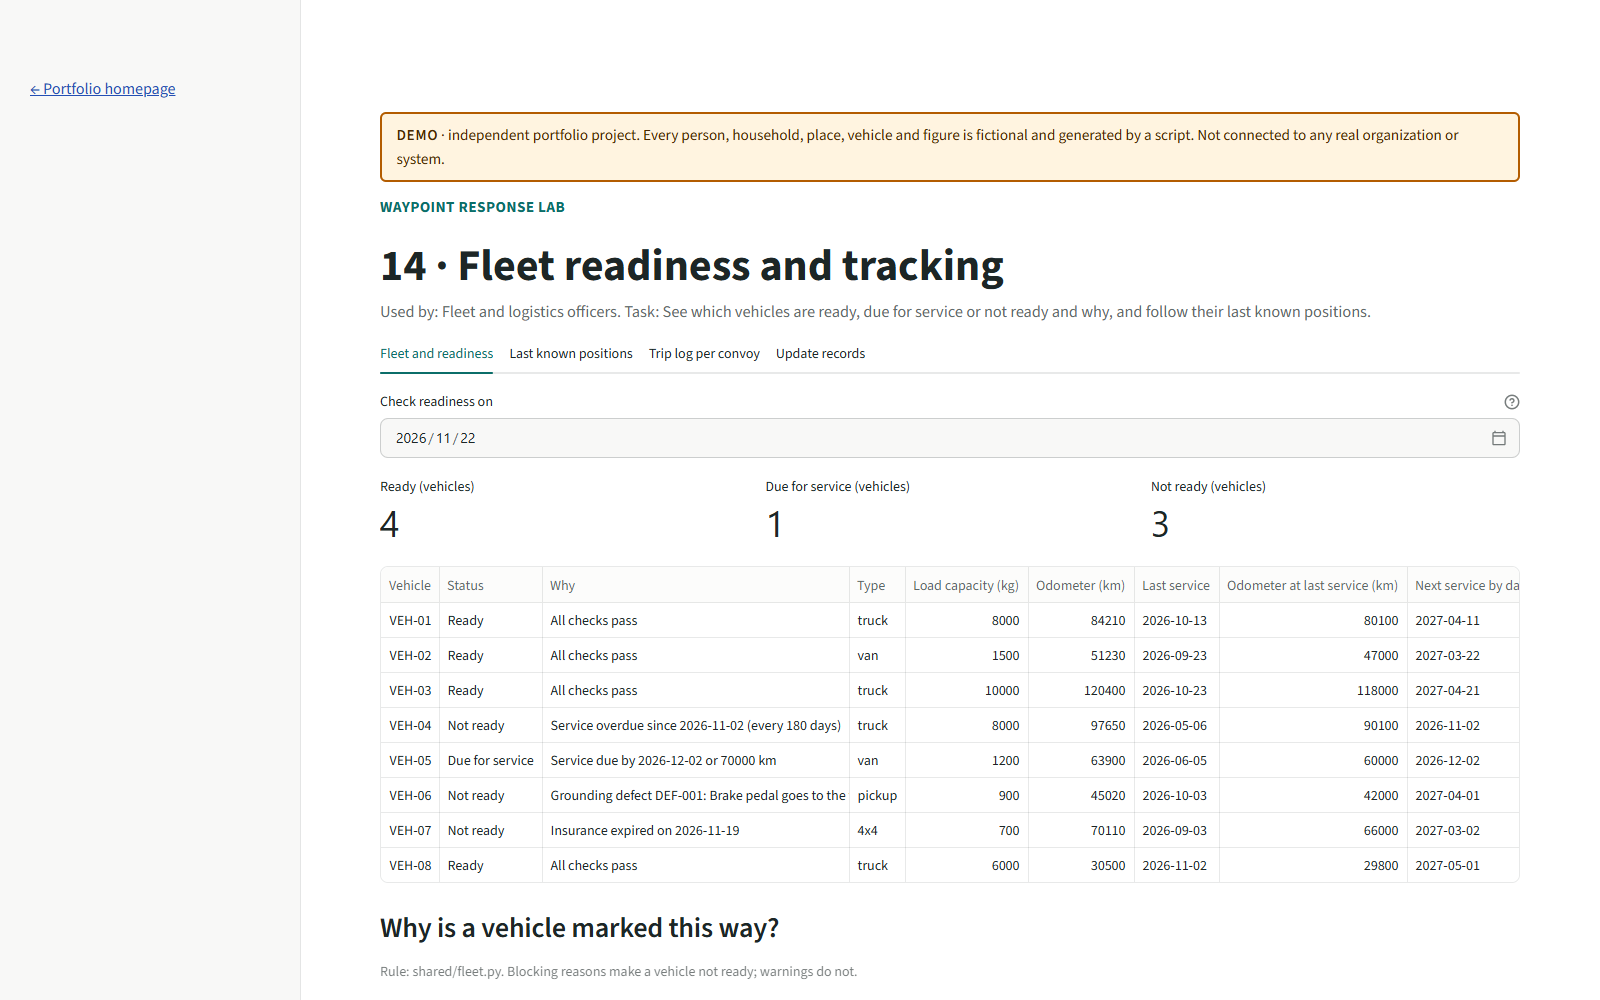
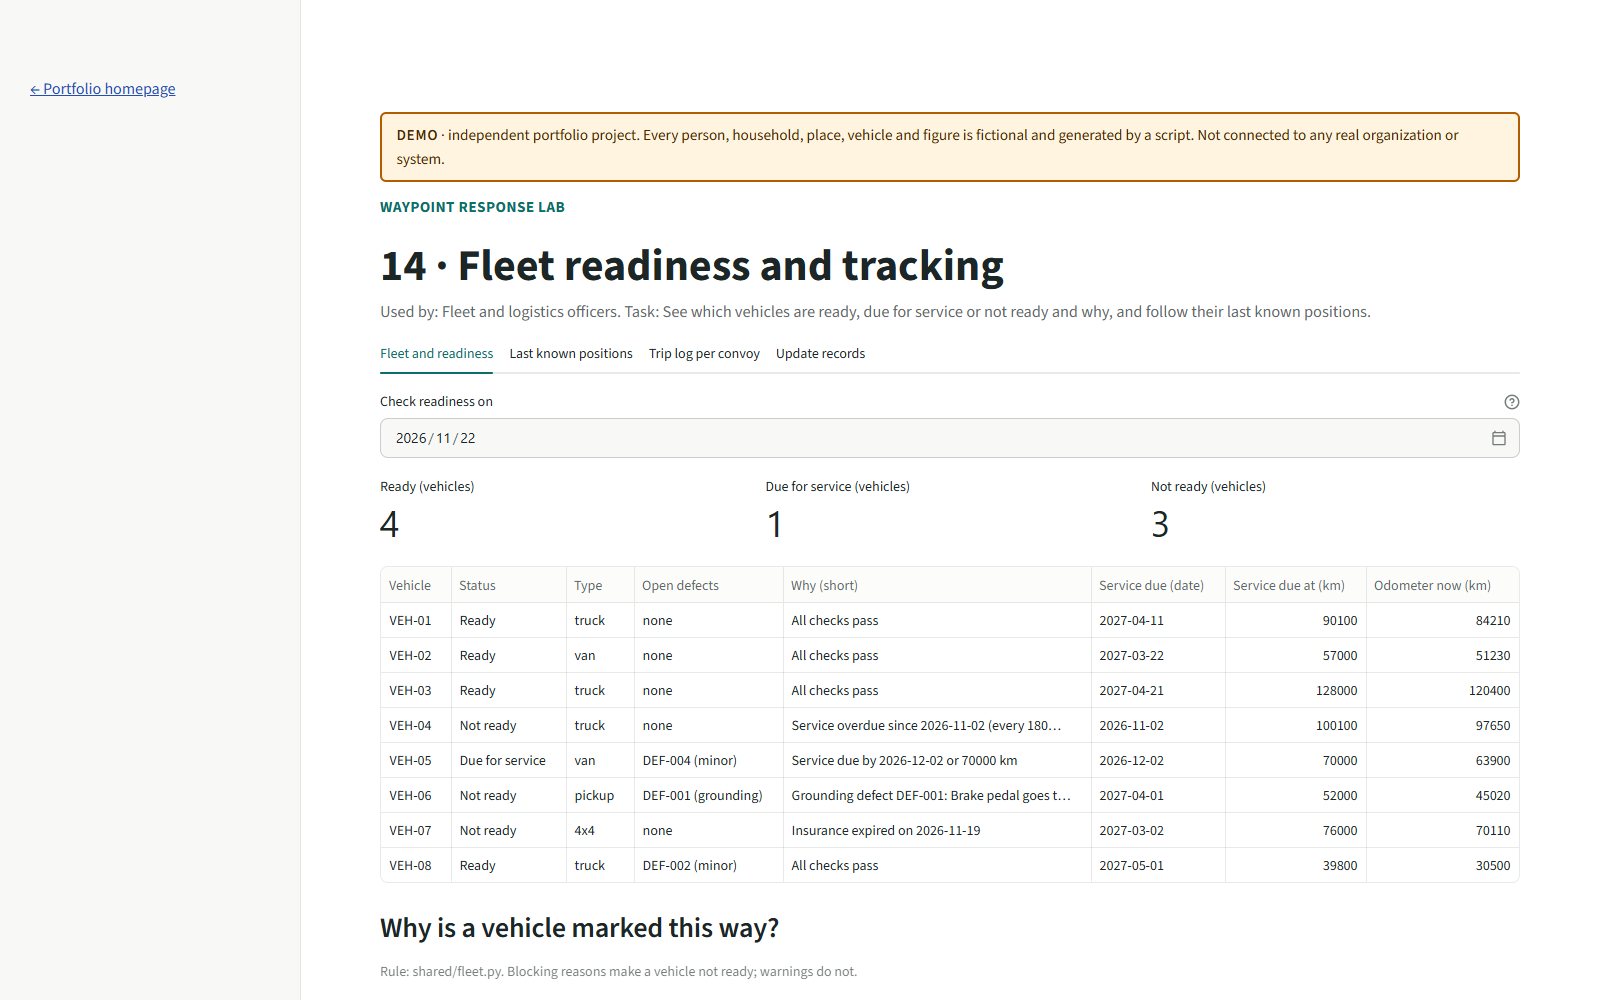
Project 14: narrower tables, confirmations, fresh screenshot

diff --git a/projects/14-fleet-readiness-and-tracking/app.py b/projects/14-fleet-readiness-and-tracking/app.py
@@ -8,6 +8,7 @@ for p in (str(ROOT), str(HERE)):
         sys.path.insert(0, p)
 
 import p14_fleet as fl  # noqa: E402
+import pandas as pd  # noqa: E402
 import plotly.express as px  # noqa: E402
 import streamlit as st  # noqa: E402
 
@@ -49,7 +50,21 @@ with tab_fleet:
             ("Not ready (vehicles)", int(counts.get("Not ready", 0))),
         ]
     )
-    ui.table(table, key="p14_fleet_table")
+    shown_fleet = table[
+        ["Vehicle", "Status", "Type", "Open defects", "Why", "Next service by date", "Next service by distance (km)", "Odometer (km)"]
+    ].copy()
+    shown_fleet["Why"] = shown_fleet["Why"].map(lambda t: t if len(t) <= 45 else t[:44].rstrip() + "…")
+    ui.table(
+        shown_fleet.rename(
+            columns={
+                "Why": "Why (short)",
+                "Next service by date": "Service due (date)",
+                "Next service by distance (km)": "Service due at (km)",
+                "Odometer (km)": "Odometer now (km)",
+            }
+        ),
+        key="p14_fleet_table",
+    )
     ui.section("Why is a vehicle marked this way?", "Rule: shared/fleet.py. Blocking reasons make a vehicle not ready; warnings do not.")
     vehicle_id = st.selectbox("Vehicle", table["Vehicle"].tolist(), key="p14_explain_vehicle")
     result = fl.explain(conn, vehicle_id, on)
@@ -61,6 +76,9 @@ with tab_fleet:
         st.warning(warning)
     if not result.reasons and not result.warnings:
         st.success("No service, document or defect problems on this date.")
+    with st.expander(f"All dates, load and odometer for {vehicle_id}"):
+        detail = table[table["Vehicle"] == vehicle_id].iloc[0].drop(["Vehicle", "Why"])
+        ui.table(pd.DataFrame({"Item": detail.index, "Value": [str(v) for v in detail.values]}), key="p14_vehicle_detail")
 
 # -- positions -------------------------------------------------------------
 with tab_pos:
@@ -81,19 +99,25 @@ with tab_pos:
         st.button("Refresh now", key="p14_refresh")
         st.markdown(f"Stale limit: **{limit:g} minutes** (setting `stale_position_minutes`). Updated at {now:%H:%M:%S}.")
         shown = pos.copy()
+        newest = shown["last_report_at"].dropna().max() if shown["last_report_at"].notna().any() else None
+        if fleet.is_stale(newest, now, limit):
+            st.warning(
+                "The newest position report is old. The position simulator only runs when the portfolio is launched with its "
+                "services (python run.py); opened alone, this page shows the last reports that were written."
+            )
+        st.markdown("Newest report in the fleet: " + ui.freshness_badge(newest, limit, now), unsafe_allow_html=True)
         n_stale = int(shown["stale"].sum())
         ui.metric_row([("Vehicles tracked (count)", len(shown)), ("Stale positions (vehicles)", n_stale)])
         for row in shown[shown["stale"]].itertuples():
             st.markdown(f"**{row.vehicle_id}** " + ui.freshness_badge(row.last_report_at, limit, now), unsafe_allow_html=True)
-        table = shown.assign(
-            Flag=shown["stale"].map({True: "STALE", False: "ok"}),
-            Tracker=shown["tracker_simulated"].map({True: "reporting", False: "off"}),
-        )[["vehicle_id", "last_report_at", "minutes_since_report", "x_km", "y_km", "speed_kmh", "convoy_id", "source", "Tracker", "Flag"]]
+        table = shown.assign(Flag=shown["stale"].map({True: "STALE", False: "ok"}))[
+            ["vehicle_id", "Flag", "minutes_since_report", "last_report_at", "x_km", "y_km", "speed_kmh", "convoy_id", "source"]
+        ]
         table = table.rename(
             columns={
                 "vehicle_id": "Vehicle",
+                "minutes_since_report": "Report age (min)",
                 "last_report_at": "Last report at",
-                "minutes_since_report": "Minutes since report",
                 "x_km": "East (km)",
                 "y_km": "North (km)",
                 "speed_kmh": "Speed (km/h)",
@@ -119,9 +143,17 @@ with tab_trip:
     convoy_id = st.selectbox("Convoy", list(labels), format_func=lambda k: labels[k], key="p14_convoy")
     log = fl.trip_log(conn, convoy_id)
     ui.section("Status events")
-    ui.table(log["events"], key="p14_events")
+    ui.table(
+        log["events"].rename(columns={"at": "At", "status": "Status", "staff_id": "By", "note": "Note"}),
+        key="p14_events",
+    )
     ui.section("Vehicles and drivers")
-    ui.table(log["vehicles"], key="p14_cv")
+    ui.table(
+        log["vehicles"].rename(
+            columns={"vehicle_id": "Vehicle", "vehicle_type": "Type", "driver_id": "Driver", "licence_class": "Licence class"}
+        ),
+        key="p14_cv",
+    )
     ui.section("Position reports", f"{len(log['reports'])} reports carrying this convoy id, oldest first.")
     if log["reports"].empty:
         st.info("No position reports carry this convoy id.")
@@ -133,7 +165,20 @@ with tab_trip:
             fig, "Distance east (km, invented grid)", "Distance north (km, invented grid)", "Route flown by report order", 420
         )
         st.plotly_chart(fig, width="stretch", key="p14_route")
-        ui.table(log["reports"], height=260, key="p14_reports")
+        ui.table(
+            log["reports"][["reported_at", "vehicle_id", "x_km", "y_km", "speed_kmh", "source"]].rename(
+                columns={
+                    "reported_at": "Reported at",
+                    "vehicle_id": "Vehicle",
+                    "x_km": "East (km)",
+                    "y_km": "North (km)",
+                    "speed_kmh": "Speed (km/h)",
+                    "source": "Source",
+                }
+            ),
+            height=260,
+            key="p14_reports",
+        )
 
 # -- updates ---------------------------------------------------------------
 with tab_update:
